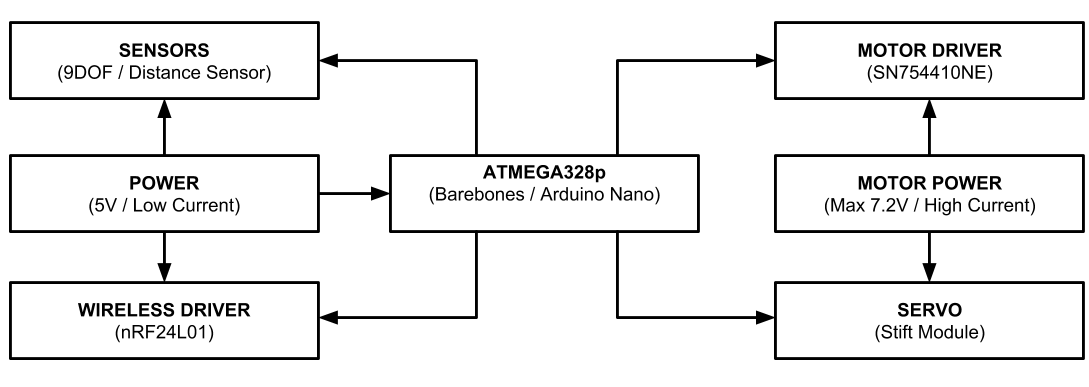
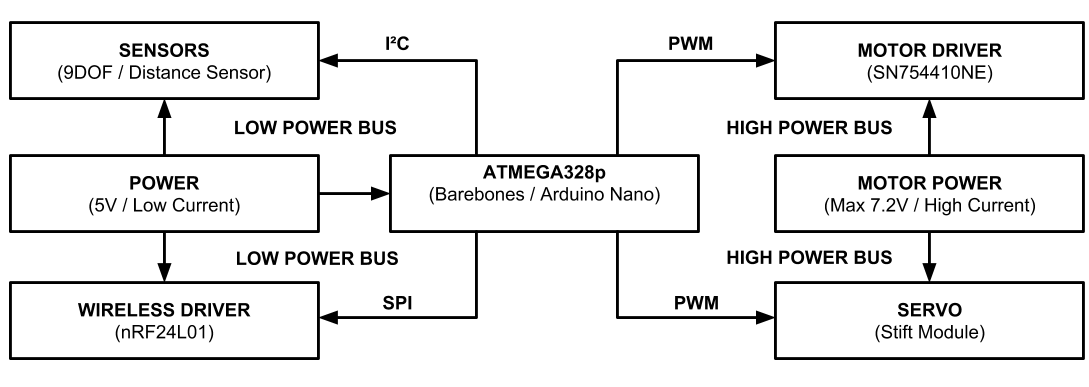
analyse

diff --git a/book/deliverables/analyse.md b/book/deliverables/analyse.md
@@ -1,6 +1,7 @@
 # Analyse
 
 In de analyse vinden we de volgende elementen terug:
+- Probleemstelling
 - Een mindmap
 - Een beschrijving
 - Hardware analyse
@@ -8,61 +9,137 @@ In de analyse vinden we de volgende elementen terug:
 - Taakverdeling
 - Systeem specificaties
 
+## Probleemstelling 
+
+Het doel van Smart Systems is het voorzien van een oplossing voor een probleem.
+Als we het probleem gedefinieerd is en neergeschreven is het eenvoudiger om een
+oplossing te voorzien. De oplossing voor het probleem kan worden opgedeeld in
+verschillende kleine deelproblemen. Door het probleem te zien als een som van
+kleine deelproblemen lijkt het minder imposant. Als je systematisch kleine
+problemen oplost dan kan je vooruitgang zien en de finish.
+
+**Voor deze sectie van de analyse beschrijf je het hoofdprobleem in maximaal 2
+tot 5 zinnen. Daarna deel je het probleem op in minimum 10 delen (Als bulletpoints).**
+
+
 ## Mindmap
 
-Mindmapping is een techniek waarbij je alle losse idee over het project aan
-elkaar probeert te koppel zodat je een referentiepunt hebt over de zaken die je
-moet analyseren over het project. Deze simpele stap geeft het start schot voor
-de analyse. Goed begonnen is half gewonnen.  De mindmap is een figuur zoals in
-onderstaand voorbeeld waarin het project. Hoe meer verfijnd de mindmap is
-opgesteld hoe gemakkelijker de uitvoering wordt en hoe beter de benodigde tijd
-en mankracht kan worden ingeschat.
+Nu dat we het probleem hebben vastgesteld gaan we beginnen aan het formuleren
+van een oplossing. De eerste stap hierin is het bundelen van losse ideeën om
+het probleem aan te pakken en eventueel nog meer details over het probleem neer
+te pennen. Hiervoor gebruiken we een mindmap. Met een mindmap gaan we onze
+losse ideeën en gedachten op een visuele manier organiseren en met elkaar te
+verbinden. Als we dit hebben gedaan is het startschot van de analyse gegeven 
 
 <img style="display:block; margin: auto;" src="./img/mindmap.jpg" alt="">
 
-**Je begint best op papier maar de versie voor in de analyse moet digitaal zijn.**
+**Je voegt de mindmap toe aan de analyse.Je mag dit op papier doen maar je moet
+deze wel netjes inscannen, digitaal heeft de voorkeur. (Je kan Google Drawings
+gebruiken)**
 
 # Specieke analyse
+In de mindmap hebben we alle mogelijke oplossingen gevisualiseerd en
+verbindingen gelegd. In deze stap van de analyse gaan we één van deze
+oplossingen selecteren en onderbouwen. Dit moet zowel voor hardware als
+software gebeuren.
 
 
 ## Hardware analyse
-Aan dit project is er ook een fysieke component die bestaat uit verschillende
-bouwblokken. De doel van dit gedeelte is te zien hoe dat deze verschillende
-blokken aan elkaar vasthangen. Je kan een motor wel vast hangen aan stroombron
-maar zonder een sturing ga je er niet veel aan hebben. 
+We leggen eerst de focus op de hardware omdat deze mee de mogelijkheden van de
+software oplossingen bepaalt. Voor de hardware analyse ga je de connecties van
+de subsystemen weergeven en aantonen hoe dat de interface tussen beide
+componenten is opgebouwd. Een voorbeeld: 
 
-Naast de onderliggende connecties moet je ook de vereisten van elke blok
-verzamelen en/of opstellen. Als we terug kijken naar de motorsturing kunnen we
-niet lukraak een kopen. We moeten zien hoeveel stroom dat onze motor trekt en
-hiervoor dan een gepaste motorsturing maken of kopen.
+<img style="display:block; margin: auto;" src="./img/block_diagram_connections.png" alt="">
 
-De fysieke component word door de meeste studenten vaak onderschat. Je kan geen
-nieuwe versie van de hardware maken door opnieuw te compileren. Het kost tijd
-om de hardware te ontwerpen, de nodige items te verzamelen en dan te
-assembleren.
+Een voorbeeld van een volledig systeem
 
-**Een basis voorbeeld van een hardware analyse**
 <img style="display:block; margin: auto;" src="./img/basic_blok.png" alt="">
 
-Bij een analyse hoort ook een verdediging waarom dat je iets gebruikt. In het
-basis voorbeeld staat er dat we een nRF24L01 gebruiken. Waarom gebruik we deze
-module?, wat zijn de voordelen hiervan?, hoe past het in het grote geheel? en
-wat zijn de mogelijke alternatieven. Deze vragen moet je kunnen beantwoorden.
+**Stel dit op voor de voorgestelde oplossing en voeg dit toe aan de analyse**
+
+Natuurlijk hoort er bij elke blok ook specificaties en/of elektrische
+karakteristieken. Deze worden in het volgende formaat meegeven in de analyse.
+
+| Blok           | Specificatie    | Min  | Nominaal | Max    |
+| --             | --              | --   | --       | --     |
+| Motor Power    | Werkspanning    | 7V   | 7.2V     | 7.V    |
+| (Loodbatterij) | Stroom          |      | 500mA    | 2A     |
+|                | Capaciteit      |      | 2700mAh  | &nbsp; |
+| ATmega328p     | F<sub>cpu</sub> |      | 16 MHz   |        |
+|                | Werkspanning    | 4.8V | 5V       | 5.2V   |
  
+**Stel dit op voor gebruikte blokken in de  oplossing en voeg dit toe aan de analyse**
+
+Voor elk blok moet je ook een argumentatie geven waarom deze gebruikt wordt in
+de voorgestelde oplossing in de analyse. Geef ook mogelijke alternatieven. Geef
+deze informatie in het volgend formaat: 
+
+| Blok            | Argumentatie                                                                                                                                                                                                                                   | Alternatieven           |
+| --              | --                                                                                                                                                                                                                                             | --                      |
+| Motor Power     | De loodbatterij is oplaadbaar en levert de correcte spanning voor de motorsturing. De LiPo batterij is een betere oplossing vooral door gewicht en beter behoud van capaciteit. De loodbatterij was beschikbaar en moest niet aangkocht worden | LiPo, Powerbank         |
+| Wireless Driver | We maken gebruik van een nRF24L01 omdat de simpelste manier van communicatie is, geen protocol en een simpele communicatie voorziet.                                                                                                           | Bluetooth, ZigBee, WiFi |
+
+**Stel dit op voor gebruikte blokken in de  oplossing en voeg dit toe aan de analyse**
+
 
 ## Software analyse
 
-Aangezien we de schakelingen opbouwen met programmeerbare hardware, zal het
-noodzakelijk zijn om naast een analyse van de hardware ook een analyse van de
-software op te stellen. De beste mannier om dit duidelijk weer te geven is door
-het maken van een aantal flow charts
+Om onze software te analyseren is een top down methodologie aangeraden. Eerst
+moeten we zien wat onze datastromen zijn. Welke data word er genereerd in het
+systeem, wat voor data kunnen we injecteren voor het systeem. Deze vraag is
+cruciaal om parallel in team te kunnen werken. Dit moet in het begin bepaald
+worden zodat je als individu aan aparte blok kunt werken van het systeem. 
 
-Net zoals bij de hardware analyse hebben we verschillende blokken die met
-elkaar moeten verbinden. 
+Als je bepaalt hebt wat voor data er in en uit een specifieke blok van het
+systeem komt, moet je ook nog bepalen in welk formaat dit gebeurt. Om dit
+succesvol te doen moet er ook rekening gehouden worden met de hardware
+restricties. JSON versturen over I²C met een Arduino is gedoemd om  te falen.
 
+Voor de starten geef je aan welke data er in en/of uit een specifieke blok komt
+van de hardware analyse. We geven dit weer in het volgend formaat: 
 
-Op deze manier bouwen we onze software modulair. Dit
-is een vereiste doorheen het project. Je werkt met meerde tijdens het project. 
+| Blok         | Data In                               | Data Uit                              |
+| --           | --                                    | --                                    |
+| Motor Driver | 2x PWM Signaal                        | N.V.T.                                |
+| ATMega328P   | Configuratie instellingen, Sensordata | Configuratie instellingen, Sensordata |
+
+Bij de ATMega328p zien we dat de data uit gelijk is aan de data in. Hieruit
+kunnen we afleiden dan we data van ons systeem remote kunnen opvragen via de
+Wireless Driver. Deze functionaliteit moet in elk project zitten.
+
+**Maak de oplijsting voor de in en uit data van de voorgestelde oplossing in
+bovenstaand formaat en voeg deze toe aan de analyse**
+
+De machine die als mogelijke oplossing word aangebodendat we aanbieden kan in
+zich in verschillende states vinden en kan transitioneren tussen verschillende
+states. Om de embedded code in het project eenvoudig te kunnen debugen moeten
+we weten in welke state de code zicht bevindt. Om deze states te defineren
+maken we gebruik van een state diagram. Een voorbeeld hiervan kan je hieronder
+terugvinden. 
+
+<img style="display:block; margin: auto;" src="./img/state_diagram.png" alt="">
+
+**Voeg aan de analyse een state diagram toe van de voorgestelde oplossing**
+*Een goed voorbeeld van een complexer state diagram kan je hier terugvinden:
+[State Diagram nRF24L01](http://m8ta.com/images/470_1.png)*
+
+Om te wisselen tussen de verschillende states moeten we de flow hiervan beschrijven in een flowchart 
+
+<img style="display:block; margin: auto;" src="./img/flow_chart.png" alt="">
+
+**Voeg in de analyse voor elke state transition een flowchart. Verduidelijk de
+nodige processen met flowchart waar nodig.**
+
+*Op deze manier bouwen we onze software modulair. Dit is een vereiste doorheen
+het project. Je werkt met meerde tijdens het project aan aparte blokken om dit
+mogelijk te maken moeten de interface tusssen de aparte blokken gekend zijn.*
+
+Als er een grafische interface nodig, dienen hiervoor mock ups gemaakt worden.
+<img style="display:block; margin: auto;" src="./img/mockup.png" alt="">
+
+**Als er mock ups nodig zijn voeg deze toe aan de analyse**
+
 
 ## User stories en Engineering Tasks
 
